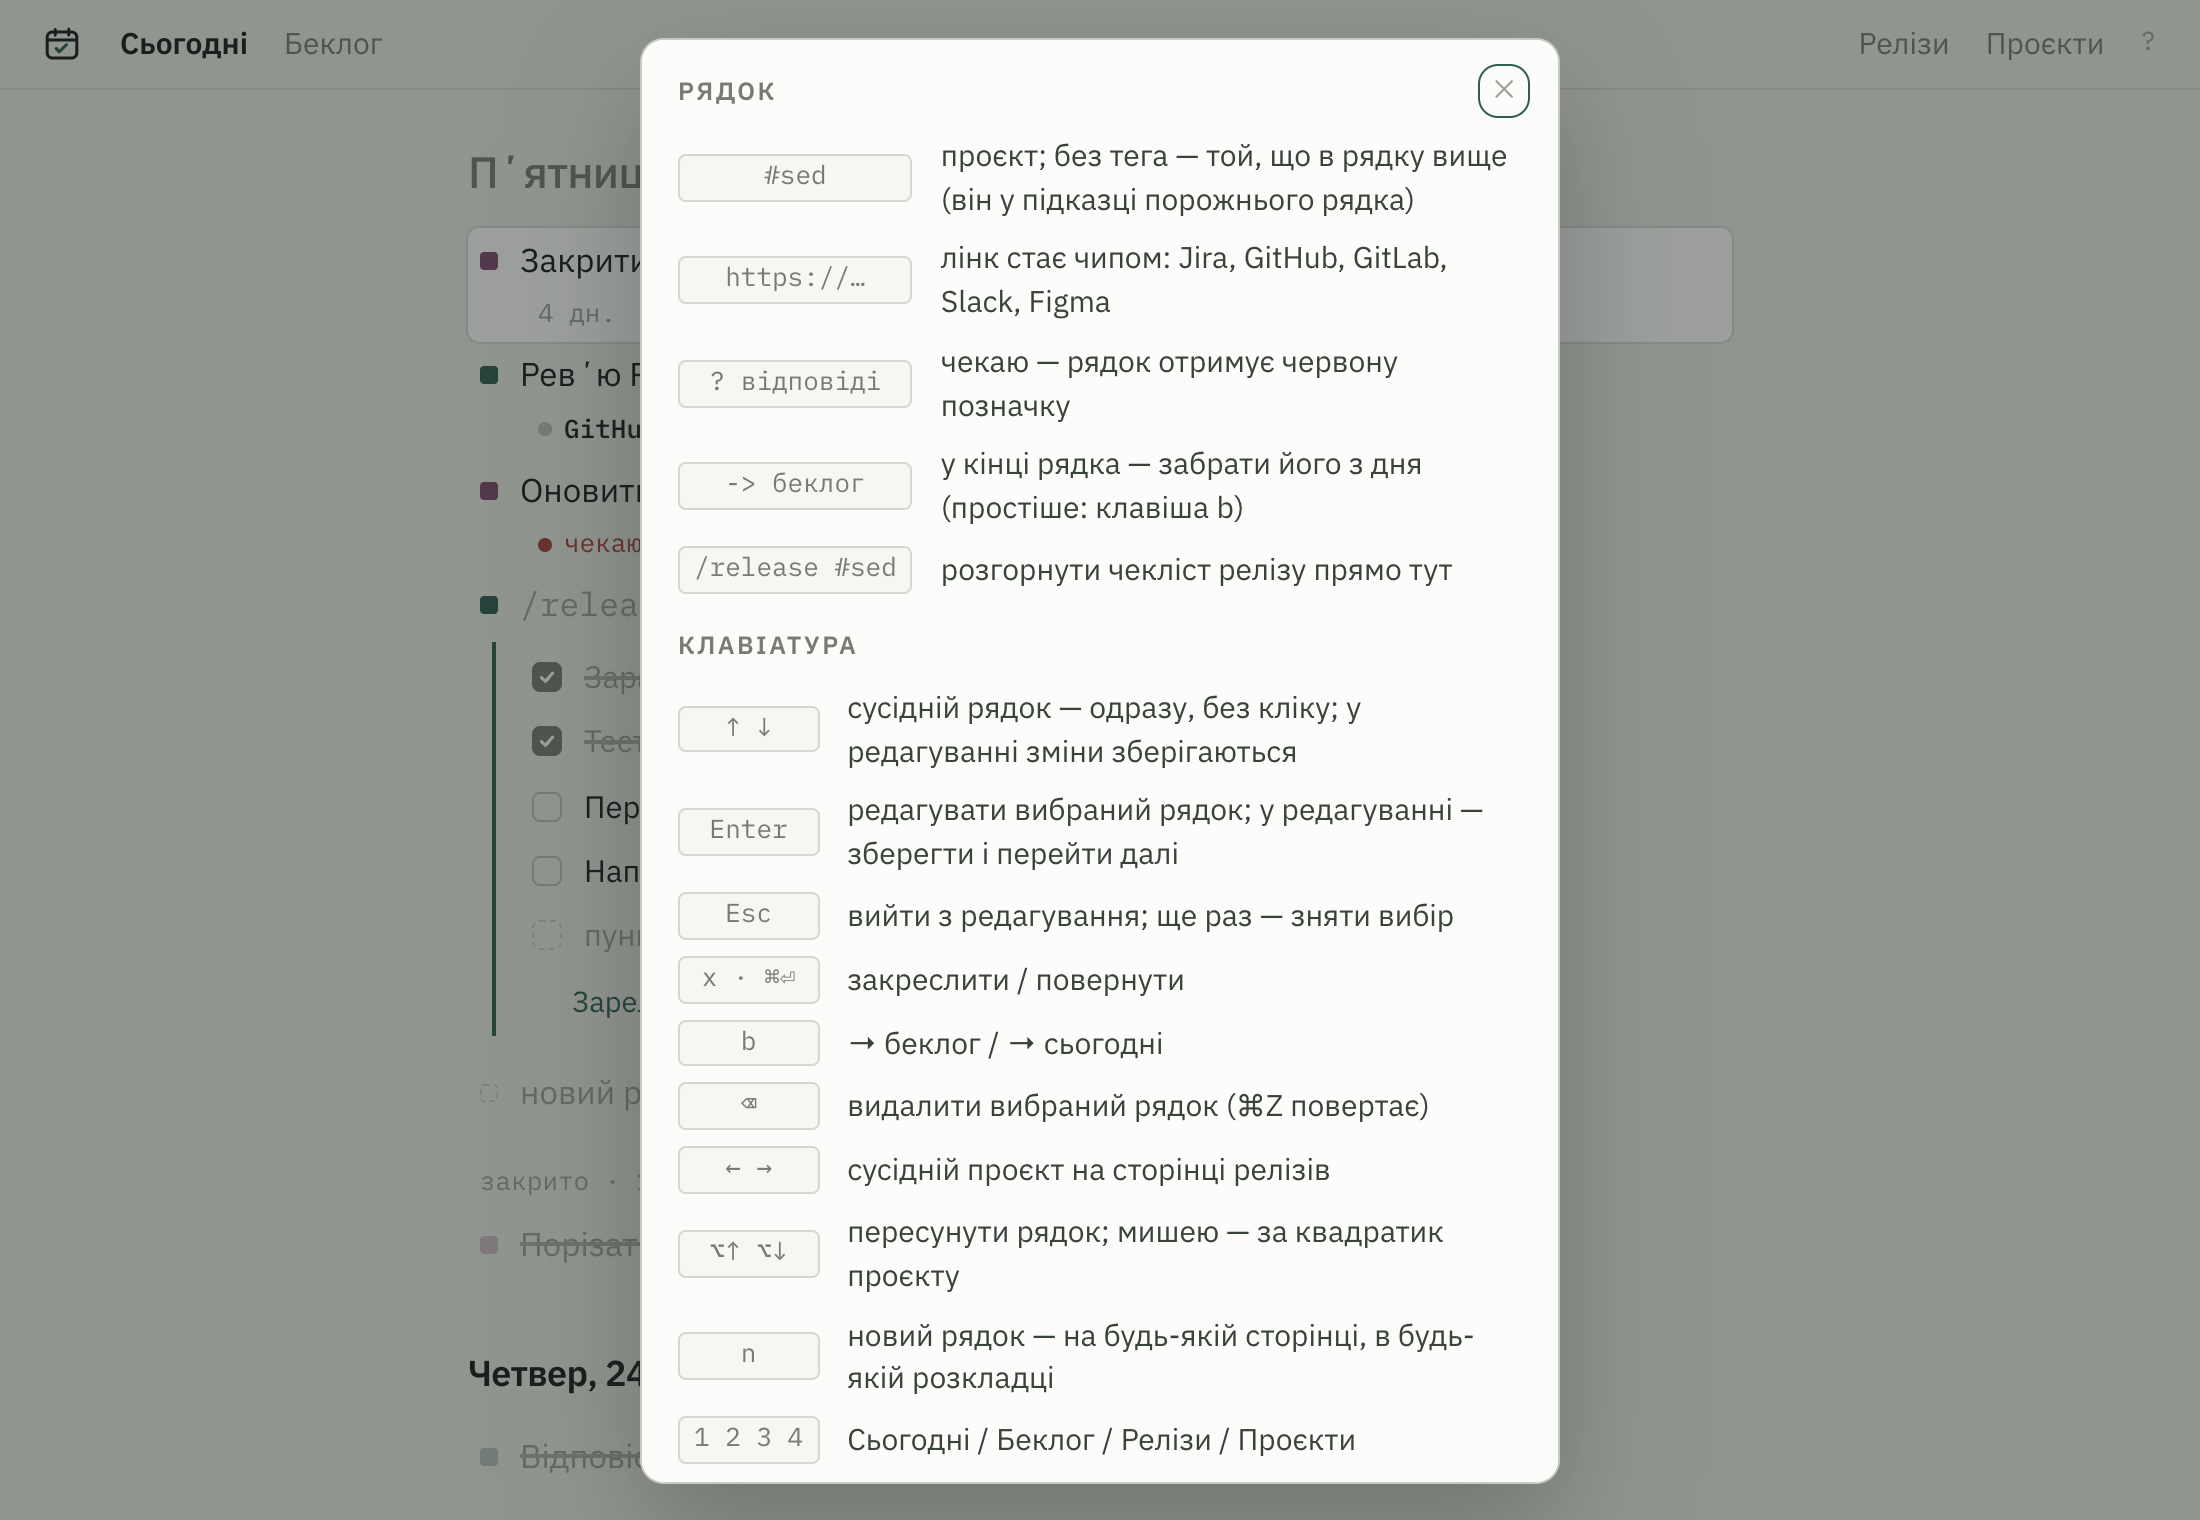
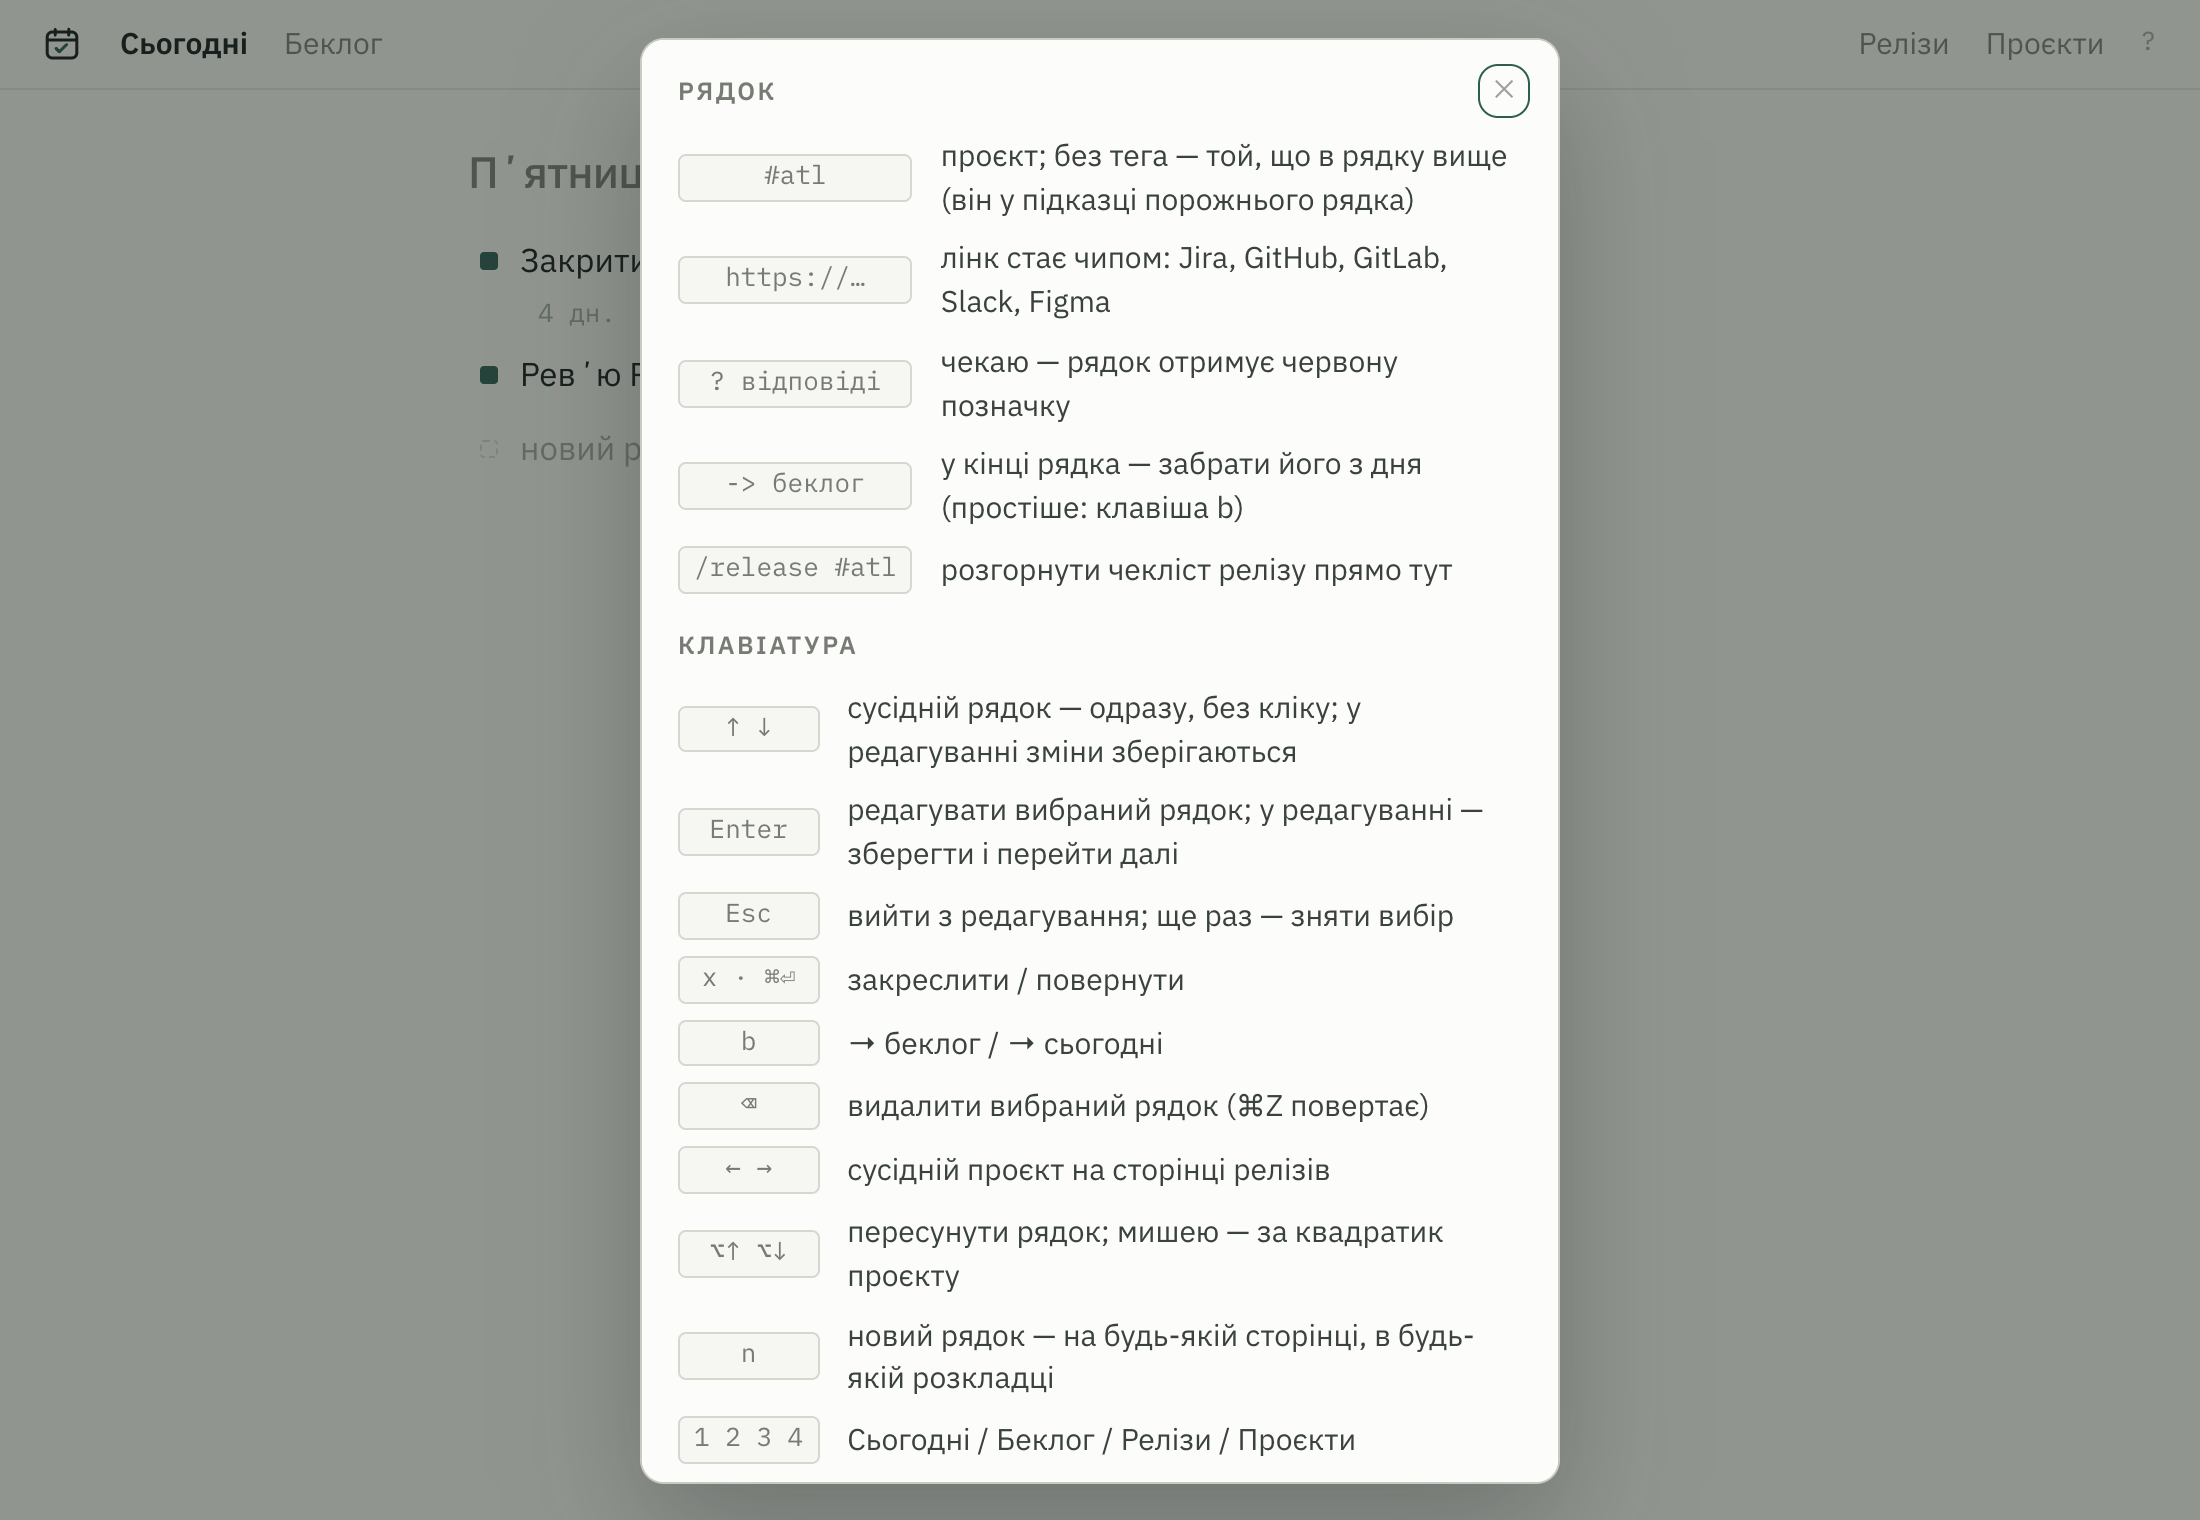
seed two sample projects, accent token, help examples

diff --git a/internal/web/static/app.css b/internal/web/static/app.css
@@ -9,7 +9,7 @@
   --faint:#9BA098;
   --line:#D6D8D0;
   --line-2:#E2E4DD;
-  --atlas:#2F5D50;
+  --accent:#2F5D50;
   --attention:#A3413A;
   --attention-bg:#F4E7E4;
   --mono:"IBM Plex Mono",ui-monospace,"SF Mono",monospace;
@@ -23,7 +23,7 @@ body{
   font-size:15.5px;line-height:1.45;font-variant-numeric:tabular-nums;
   -webkit-font-smoothing:antialiased;
 }
-a{color:var(--atlas);text-decoration:none}
+a{color:var(--accent);text-decoration:none}
 .mono{font-family:var(--mono)}
 .grow{flex:1}
 .dim{color:var(--faint);font-weight:400}
@@ -95,7 +95,7 @@ a{color:var(--atlas);text-decoration:none}
 .ln .raw::selection{background:rgba(47,93,80,.22)}
 .ln .hl{position:absolute;inset:0;pointer-events:none;color:var(--ink)}
 .hl .u{color:var(--muted);text-decoration:underline;text-decoration-color:#C3C7BE;text-underline-offset:3px}
-.hl .h{color:var(--atlas);font-weight:500}
+.hl .h{color:var(--accent);font-weight:500}
 .hl .w{color:var(--attention)}
 .hl .c,.hl .r{color:var(--muted)}
 .ln.editing{background:var(--card);box-shadow:0 0 0 1px var(--line)}
@@ -109,7 +109,7 @@ a{color:var(--atlas);text-decoration:none}
 }
 .ch b{color:var(--ink);font-weight:500}
 .ch i{width:7px;height:7px;border-radius:50%;background:#B9BDB5;display:inline-block;flex:none}
-.ch i.ok{background:var(--atlas)}
+.ch i.ok{background:var(--accent)}
 .ch i.amber{background:#B7791F}
 a.ch:hover{color:var(--ink)}
 .ch:hover b{text-decoration:underline;text-decoration-color:#B9BDB5}
@@ -137,7 +137,7 @@ a.ch:hover{color:var(--ink)}
 .ci .box.dashed{border-style:dashed;border-color:#C9CCC5;cursor:default}
 .ci.hist:hover{background:transparent}
 /* Action words: padding hugs the word, so a focus ring hugs it too. */
-.act{align-self:flex-start;font:inherit;font-size:14.5px;color:var(--atlas);background:none;border:0;padding:2px 5px;margin:4px 0 0 21px;border-radius:5px;cursor:pointer}
+.act{align-self:flex-start;font:inherit;font-size:14.5px;color:var(--accent);background:none;border:0;padding:2px 5px;margin:4px 0 0 21px;border-radius:5px;cursor:pointer}
 .act:hover{text-decoration:underline}
 .act:focus-visible{outline-offset:0}
 .act.ghost{color:var(--faint)}
@@ -192,7 +192,7 @@ a.ch:hover{color:var(--ink)}
 /* ---------- dialogs, buttons ---------- */
 .btn{font:inherit;font-size:15px;color:var(--ink-2);background:var(--card);border:1px solid var(--line);border-radius:7px;padding:7px 13px 8px;cursor:pointer}
 .btn:hover{border-color:#B9BDB5}
-.btn.primary{font-weight:600;color:var(--card);background:var(--atlas);border-color:var(--atlas)}
+.btn.primary{font-weight:600;color:var(--card);background:var(--accent);border-color:var(--accent)}
 .btn.primary:hover{background:#274E43;border-color:#274E43}
 .btn.primary.danger{background:var(--attention);border-color:var(--attention)}
 .btn.primary.danger:hover{background:#8F372F;border-color:#8F372F}
@@ -225,7 +225,7 @@ dialog[open]{animation:dialog-in .16s var(--ease)}
 dialog[open]::backdrop{animation:fade-in .16s var(--ease)}
 @keyframes dialog-in{from{opacity:0;transform:translateY(-6px) scale(.985)}to{opacity:1;transform:none}}
 @keyframes fade-in{from{opacity:0}to{opacity:1}}
-button:focus-visible,input:focus-visible,textarea:focus-visible{outline:1.5px solid var(--atlas);outline-offset:3px;border-radius:6px}
+button:focus-visible,input:focus-visible,textarea:focus-visible{outline:1.5px solid var(--accent);outline-offset:3px;border-radius:6px}
 .box:focus-visible{outline-offset:2px;border-radius:5px}
 a:focus-visible{outline:0}
 .ln .raw:focus-visible,.ln-act :focus-visible,.pin:focus-visible,.pin input:focus-visible,.picker input:focus-visible,.login input:focus-visible{outline:0}

diff --git a/internal/store/store_test.go b/internal/store/store_test.go
@@ -27,13 +27,13 @@ func TestMigrateAndSeed(t *testing.T) {
 	if err != nil {
 		t.Fatal(err)
 	}
-	if len(ps) != 7 {
-		t.Fatalf("want 7 projects, got %d", len(ps))
+	if len(ps) != 2 {
+		t.Fatalf("want 2 projects, got %d", len(ps))
 	}
 	if ps[0].Name != "Atlas" || ps[0].Slug != "atl" || ps[0].Kind != "work" {
 		t.Errorf("unexpected first project: %+v", ps[0])
 	}
-	if _, err := s.ProjectBySlug("tide"); err != nil {
+	if _, err := s.ProjectBySlug("harbor"); err != nil {
 		t.Fatal(err)
 	}
 	// Re-opening must not re-run migrations.
@@ -48,7 +48,7 @@ func TestTasks(t *testing.T) {
 		t.Fatal(err)
 	}
 	atl, _ := s.ProjectBySlug("atl")
-	nim, _ := s.ProjectBySlug("nim")
+	nim, _ := s.ProjectBySlug("harbor")
 	a, err := s.CreateTask(atl.ID, "first", "now")
 	if err != nil {
 		t.Fatal(err)
@@ -327,7 +327,7 @@ func TestBackup(t *testing.T) {
 		t.Fatal(err)
 	}
 	defer copyDB.Close()
-	if ps, _ := copyDB.Projects(); len(ps) != 7 {
+	if ps, _ := copyDB.Projects(); len(ps) != 2 {
 		t.Errorf("backup has %d projects", len(ps))
 	}
 }

diff --git a/internal/store/projects.go b/internal/store/projects.go
@@ -61,12 +61,7 @@ func (s *Store) Seed() error {
 	}
 	seed := []Project{
 		{Name: "Atlas", Slug: "atl", Color: "#2F5D50", Kind: "work"},
-		{Name: "Nimbus", Slug: "nim", Color: "#7C4A6B", Kind: "work"},
 		{Name: "harbor", Slug: "harbor", Color: "#8A6A30", Kind: "pet"},
-		{Name: "kite", Slug: "kite", Color: "#4E6B8C", Kind: "pet"},
-		{Name: "moss", Slug: "moss", Color: "#7A5C99", Kind: "pet"},
-		{Name: "zaval", Slug: "zaval", Color: "#3E7D6E", Kind: "pet"},
-		{Name: "tide", Slug: "tide", Color: "#A0522D", Kind: "pet"},
 	}
 	tx, err := s.db.Begin()
 	if err != nil {
